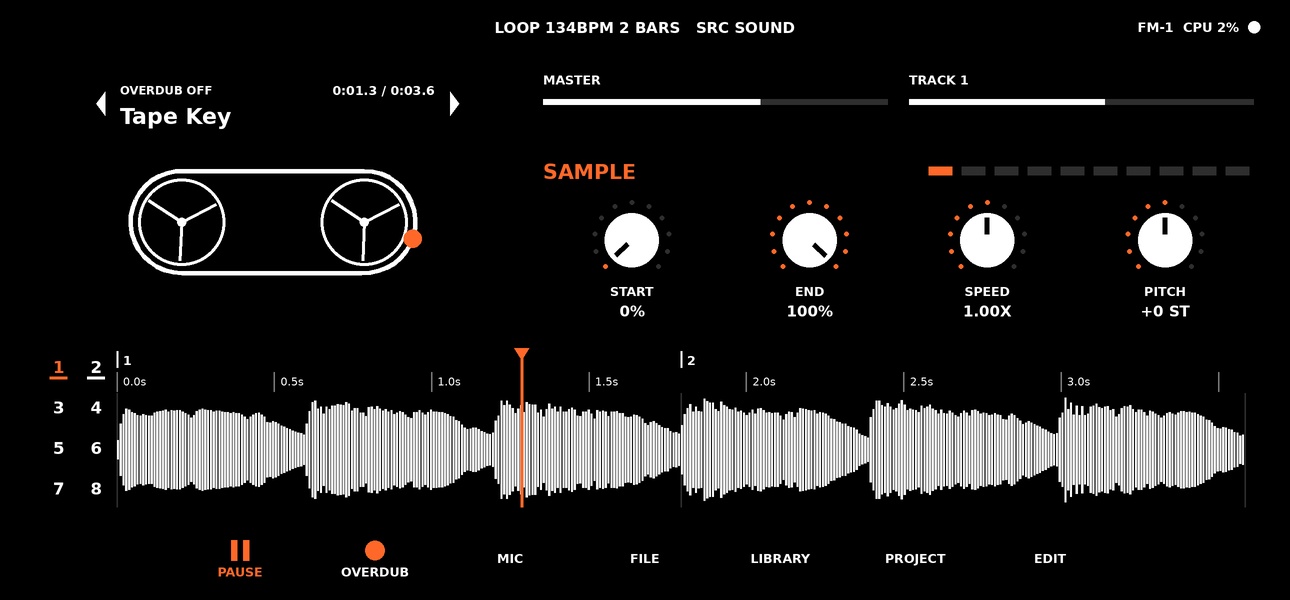
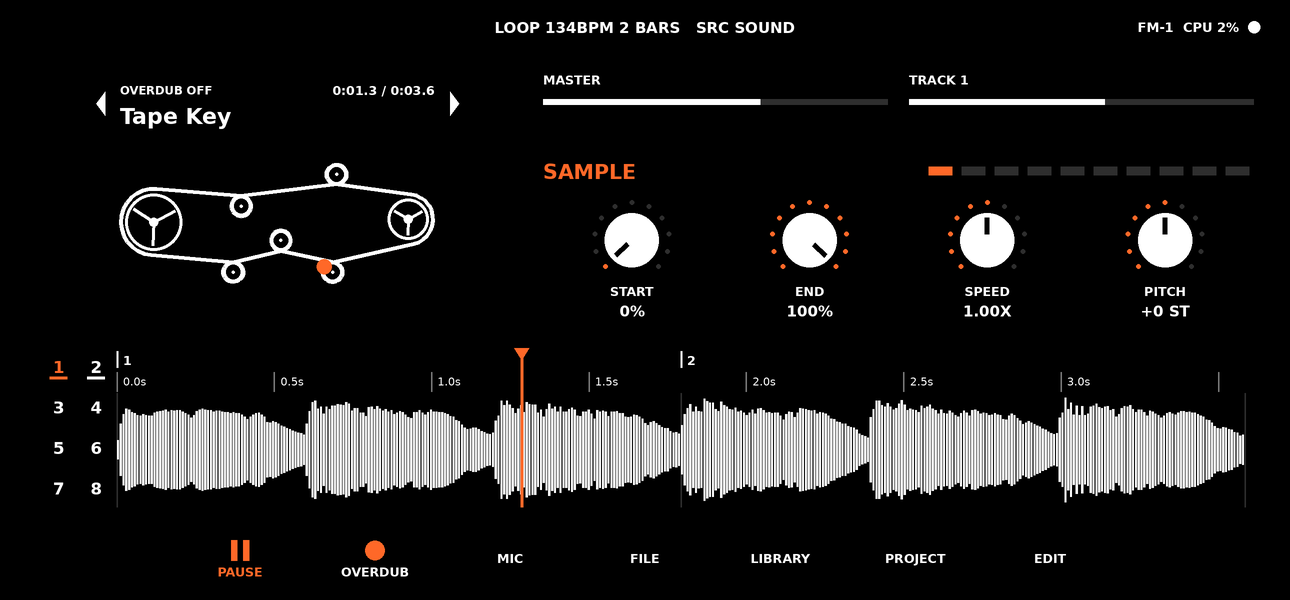
Cassette loop: ribbon over rollers and guides with S-bends instead of an ellipse

Changed region(s): [[0.093, 0.27, 0.3411, 0.48]]

diff --git a/engine/ui/SamplerUI.cpp b/engine/ui/SamplerUI.cpp
@@ -178,21 +178,65 @@ void SamplerUI::cassette(Rect c) {
     if (recNow || st_.freeArmed) { if (recNow || (now_ / 400) % 2 == 0) circle(lb.x + lb.w - 14, lb.y + 33, 4.5f, kOrange); }
     // the tape loop: one closed ribbon round two rollers; it runs once round per loop, the orange dot is the splice = the start of the loop
     Rect wd{c.x + c.w * 0.07f, lb.y + lb.h + 8, c.w * 0.86f, c.h - (lb.h + 12) - 8 - 32 + 14};
-    const float cy = wd.y + wd.h / 2, rho = wd.h / 2 - 10, rr = rho - 5;
-    const float cxL = wd.x + wd.w * 0.27f, cxR = wd.x + wd.w * 0.73f, L = cxR - cxL, arc = kPi * rho, per = 2 * L + 2 * arc;
-    const float turn = hasLoop ? lp : st_.freeRecording ? std::fmod((float)now_ / 2500.f, 1.f) : 0.f;
+    // The ribbon runs round seven posts, like a loop in a real cassette: two big rollers (convex) and small guides that bend it the other way (S-bends).
+    // Between two posts it is a common tangent, round a post an arc: the path is built from those.
+    struct Post { float x, y, r; int s; };   // s: +1 / -1 = which side of the ribbon the post sits on
+    const float W0 = wd.w, H0 = wd.h;
+    const Post posts[7] = {
+        {wd.x + 0.20f * W0, wd.y + 0.50f * H0, 0.25f * H0, -1},   // big roller, left
+        {wd.x + 0.40f * W0, wd.y + 0.88f * H0, 0.075f * H0, +1},  // guide below the bottom run
+        {wd.x + 0.52f * W0, wd.y + 0.64f * H0, 0.075f * H0, -1},  // guide above it: the ribbon dips and rises
+        {wd.x + 0.65f * W0, wd.y + 0.88f * H0, 0.075f * H0, +1},
+        {wd.x + 0.84f * W0, wd.y + 0.48f * H0, 0.19f * H0, -1},   // big roller, right
+        {wd.x + 0.66f * W0, wd.y + 0.14f * H0, 0.075f * H0, +1},  // guides in the top run
+        {wd.x + 0.42f * W0, wd.y + 0.38f * H0, 0.075f * H0, -1},
+    };
+    struct Seg { bool arc; float x0, y0, x1, y1, cx, cy, r, a0, da, len; };
+    std::vector<Seg> segs;
+    {
+        const int N = 7; float phi[N], px[N][2], qx[N][2];   // exit point of post i, entry point of post i
+        for (int i = 0; i < N; i++) {
+            const Post &a = posts[i], &b = posts[(i + 1) % N];
+            const float dx = b.x - a.x, dy = b.y - a.y, D = std::sqrt(dx * dx + dy * dy), k = b.s * b.r - a.s * a.r;
+            phi[i] = std::atan2(dy, dx) - std::asin(std::max(-1.f, std::min(1.f, k / D)));
+            const float nx = -std::sin(phi[i]), ny = std::cos(phi[i]);
+            px[i][0] = a.x - a.s * a.r * nx; px[i][1] = a.y - a.s * a.r * ny;
+            qx[(i + 1) % N][0] = b.x - b.s * b.r * nx; qx[(i + 1) % N][1] = b.y - b.s * b.r * ny;
+        }
+        for (int i = 0; i < N; i++) {
+            const int j = (i + 1) % N; const Post& b = posts[j];
+            Seg l{false, px[i][0], px[i][1], qx[j][0], qx[j][1], 0, 0, 0, 0, 0, 0}; l.len = std::hypot(l.x1 - l.x0, l.y1 - l.y0); segs.push_back(l);
+            const float a0 = std::atan2(qx[j][1] - b.y, qx[j][0] - b.x), a1 = std::atan2(px[j][1] - b.y, px[j][0] - b.x);
+            float da = a1 - a0;
+            if (b.s > 0) { while (da < 0) da += 2 * kPi; while (da > 2 * kPi) da -= 2 * kPi; } else { while (da > 0) da -= 2 * kPi; while (da < -2 * kPi) da += 2 * kPi; }
+            Seg ar{true, 0, 0, 0, 0, b.x, b.y, b.r, a0, da, b.r * std::fabs(da)}; segs.push_back(ar);
+        }
+    }
+    float per = 0; for (const Seg& g : segs) per += g.len;
     auto at = [&](float sp, float& x, float& y) {
         sp = std::fmod(sp + per, per);
-        if (sp < L) { x = cxL + sp; y = cy + rho; }
-        else if (sp < L + arc) { const float f = (sp - L) / rho; x = cxR + rho * std::sin(f); y = cy + rho * std::cos(f); }
-        else if (sp < 2 * L + arc) { x = cxR - (sp - L - arc); y = cy - rho; }
-        else { const float f = (sp - 2 * L - arc) / rho; x = cxL - rho * std::sin(f); y = cy - rho * std::cos(f); }
+        for (const Seg& g : segs) {
+            if (sp > g.len) { sp -= g.len; continue; }
+            if (!g.arc) { const float f = g.len > 0 ? sp / g.len : 0; x = g.x0 + (g.x1 - g.x0) * f; y = g.y0 + (g.y1 - g.y0) * f; }
+            else { const float an = g.a0 + g.da * (g.len > 0 ? sp / g.len : 0); x = g.cx + g.r * std::cos(an); y = g.cy + g.r * std::sin(an); }
+            return;
+        }
+        x = segs[0].x0; y = segs[0].y0;
     };
-    reel(cxL, cy, rr, -turn * 2 * kPi * 3); reel(cxR, cy, rr, -turn * 2 * kPi * 3);
-    float px, py, x, y; at(0, px, py);
-    const int segs = 80;
-    for (int i = 1; i <= segs; i++) { at(per * i / segs, x, y); line(px, py, x, y, recNow ? kOrange : kPaper, 3); px = x; py = y; }
-    at(turn * per, x, y); circle(x, y, 6, recNow ? kPaper : kOrange);
+    const float turn = hasLoop ? lp : st_.freeRecording ? std::fmod((float)now_ / 2500.f, 1.f) : 0.f;
+    const uint32_t tapeCol = recNow ? kOrange : kPaper;
+    for (const Seg& g : segs) {
+        if (!g.arc) { line(g.x0, g.y0, g.x1, g.y1, tapeCol, 2.5f); continue; }
+        const int n = std::max(2, (int)(std::fabs(g.da) / 0.2f));
+        for (int i = 0; i < n; i++) {
+            const float u0 = g.a0 + g.da * i / n, u1 = g.a0 + g.da * (i + 1) / n;
+            line(g.cx + g.r * std::cos(u0), g.cy + g.r * std::sin(u0), g.cx + g.r * std::cos(u1), g.cy + g.r * std::sin(u1), tapeCol, 2.5f);
+        }
+    }
+    const float spin = -turn * 2 * kPi * 3;
+    reel(posts[0].x, posts[0].y, posts[0].r - 3, spin); reel(posts[4].x, posts[4].y, posts[4].r - 3, spin * posts[0].r / posts[4].r);
+    for (int i : {1, 2, 3, 5, 6}) { circle(posts[i].x, posts[i].y, posts[i].r, kPaper); circle(posts[i].x, posts[i].y, posts[i].r - 1.8f, kBg); circle(posts[i].x, posts[i].y, 1, kPaper); }
+    float x, y; at(turn * per, x, y); circle(x, y, 5, recNow ? kPaper : kOrange);
 }
 
 float SamplerUI::loopPos() const {

diff --git a/README.md b/README.md
@@ -65,7 +65,7 @@ At start: Tape Key on track 1, Acoustic bass on 2, Shiny on 3, TrapKit (KIT) on 
 - `engine/dsp/Reverb.h` (8 combs + 4 allpasses per side), `TapeDelay.h`, `TapeInsert.h`, `Arp.h` (UP, DOWN, UPDN, CONV, RAND over 1..4 octaves, sample accurate gate), `Wav.*`.
 - `engine/session/Session.*`: tracks, mixer, LFO (once per block, ~170 Hz: pitch, filter, volume or pan), looper, mic recorder, library listing, command queue to the audio thread, worker thread. `status()` is lock-free.
 - `engine/app/SamplerApp.*`: all behaviour: knob pages (`knobs(Page)` is the single source for FM-1 and phone), per-track state, library, looper, FM-1 screen drawing and LEDs, SysEx pacing and loss recovery.
-- `engine/ui/SamplerUI.*`: the phone UI as draw ops. Default view = full-screen tape deck (`deck`: `cassette` (a tape LOOP: one closed ribbon round two rollers, runs once round per loop, splice = loop start), `vu` x2 (master, selected track), `knob` x8 (tape page left, mixer page of the selected track right), `timeline` = one timeline of the selected track (bars + seconds ruler, waveform, playhead, drag to scrub via `Session::seek`), track chips 1..8 on its left, `key` transport row PLAY, REC, SAVE, CLEAR, MIC, FILE, LIBRARY, EDIT; frameless minimal look: black, white and orange only (the dark theme uses the same), no cards or outlines). EDIT switches to the older editor (left tracks, centre sample/waveform with draggable START/END, voice markers, whole-loop lane, right page tabs + 4 sliders, library sheet). `ui/UiOp.h`, `Theme.h` (paper/ink/amber, square corners).
+- `engine/ui/SamplerUI.*`: the phone UI as draw ops. Default view = full-screen tape deck (`deck`: `cassette` (a tape LOOP: one closed ribbon over two big rollers and five guides (S-bends, common tangents + arcs), runs once round per loop, splice = loop start), `vu` x2 (master, selected track), `knob` x8 (tape page left, mixer page of the selected track right), `timeline` = one timeline of the selected track (bars + seconds ruler, waveform, playhead, drag to scrub via `Session::seek`), track chips 1..8 on its left, `key` transport row PLAY, REC, SAVE, CLEAR, MIC, FILE, LIBRARY, EDIT; frameless minimal look: black, white and orange only (the dark theme uses the same), no cards or outlines). EDIT switches to the older editor (left tracks, centre sample/waveform with draggable START/END, voice markers, whole-loop lane, right page tabs + 4 sliders, library sheet). `ui/UiOp.h`, `Theme.h` (paper/ink/amber, square corners).
 - `android/`: `Backend` (FM-1 USB MIDI + USB audio routing, Oboe, 30 Hz tick), `SamplerActivity` (file picker, mic permission), `AudioImport`, `SamplerView` (replays ops), `native-lib.cpp`. Package `com.ferluht.fm1sampler`, lib `fm1sampler`.
 - `firmware/`: the FM-1 firmware (M-VAVE's open firmware with the control-surface protocol of `PROTOCOL.md`). `firmware/FM1-Sampler-Workbench.html` is the flash page; `tools/build_fw.py firmware ~/fm1/wine/drive_c/JL/pi32` rebuilds it (JieLi toolchain under wine, ~30 s). Changes in `app/ctrl.c`: SEL (BTN_SCL) forwarded to the app (no on-device scale screen), splash "SAMPLER".
 
